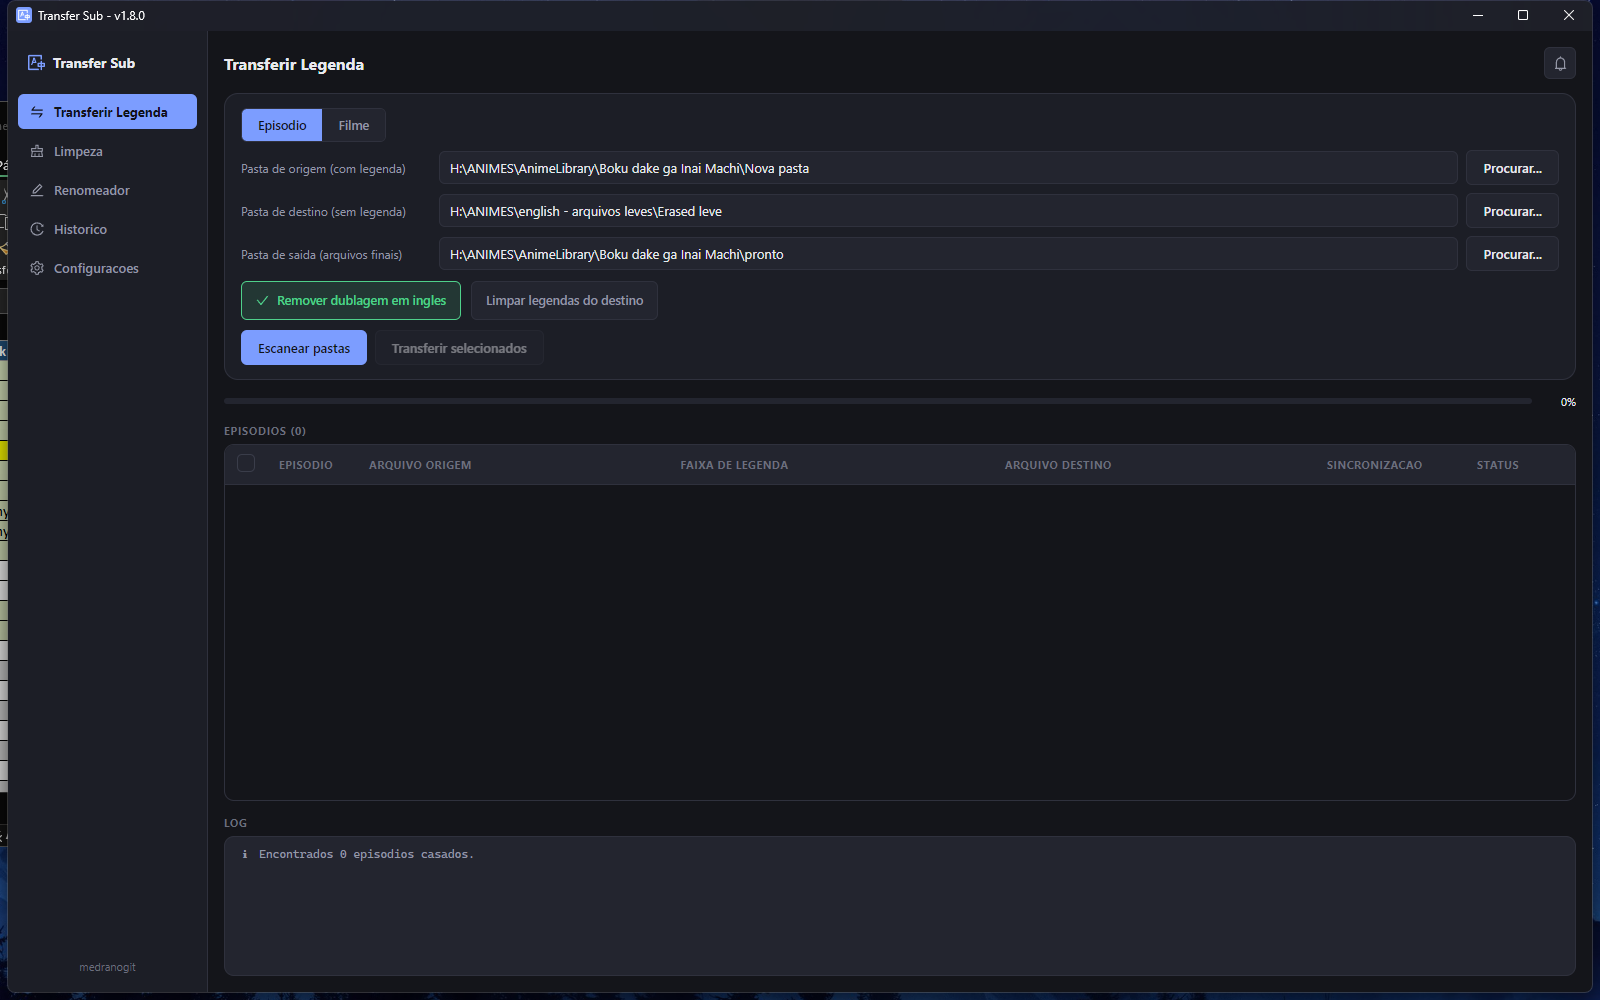
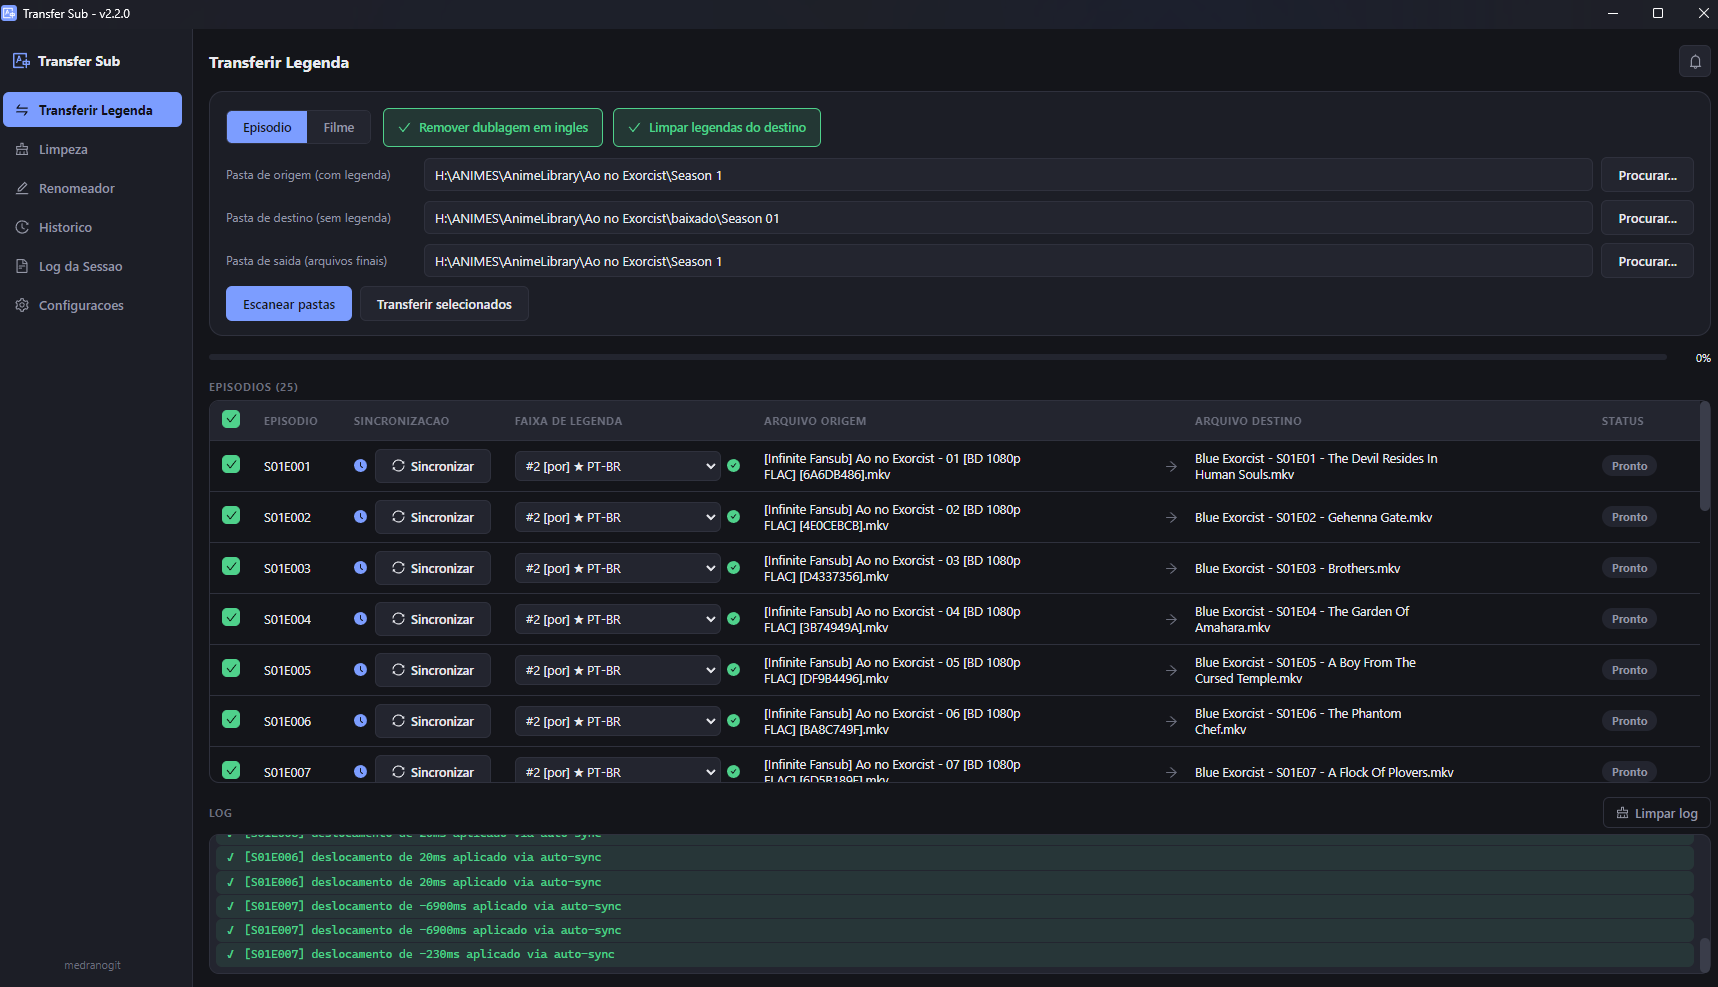
Refactor code structure for improved readability and maintainability

diff --git a/ui/README.md b/ui/README.md
@@ -154,6 +154,23 @@ npm run build   # type-check + build de producao (main/preload/renderer)
 npm run dist    # build + gera instalador .exe (electron-builder)
 ```
 
+### Release automatica (GitHub Actions)
+
+`.github/workflows/release.yml` builda e publica o instalador sozinho quando
+uma tag `vX.Y.Z` e' empurrada - precisa bater com o `version` deste
+`package.json`, ja' que e' o que o `electron-builder` usa (via
+`--publish always`, config `build.publish` no `package.json`) pra decidir o
+nome/tag da Release no GitHub, nao a tag que disparou o workflow. Roda num
+runner Windows (o instalador e' NSIS, so' builda em Windows) e usa o
+`GITHUB_TOKEN` que o proprio Actions ja' fornece - nao precisa cadastrar
+nenhum secret. Tambem pode ser disparado manualmente (sem tag) pela aba
+Actions do GitHub (`workflow_dispatch`), util pra testar o workflow em si.
+
+```
+git tag v2.3.0
+git push origin v2.3.0
+```
+
 ## Seleção automática de legenda em PT-BR
 
 A função `isPtBrTrack` em `src/main/domain/subtitleLanguage.ts` marca uma
@@ -252,6 +269,8 @@ fica limitado pela mais lenta, não pela soma das duas.
 Qualquer valor calculado vira um `--sync` no `mkvmerge` para deslocar toda a
 legenda. Deixe todos os campos em branco para manter o timing original.
 
+![Modal de sincronização, com as duas colunas de legenda lado a lado](../docs/sync-modal.png)
+
 ### Sincronizar automaticamente com legenda de imagem (PGS)
 
 Faixas PGS (`.sup`, comuns em releases de BD) não têm texto codificado — só
@@ -335,6 +354,20 @@ Como a saída pode acabar com o mesmo nome do arquivo de entrada quando a
 pasta de saída é igual à de destino, o `workflow.ts` recusa a operação nesse
 caso (`samePath`) em vez de deixar o `mkvmerge` tentar ler e escrever o
 mesmo arquivo ao mesmo tempo — o que corromperia o vídeo original.
+
+## Pasta de saída (subpasta "TS - Result")
+
+Os arquivos finais de Transferir/Limpeza não vão direto na pasta de saída
+escolhida — vão numa **subpasta** criada dentro dela (`resolveResultFolder`
+em `infra/mkvProcess.ts`), criada automaticamente (`mkdir` recursivo) antes de
+gerar qualquer arquivo. Fica claro o que o app gerou, sem misturar com o
+resto do que já estiver na pasta, e reduz bastante os casos em que
+"pasta de saída igual a de destino" bloquearia a operação (ver seção acima) —
+já que o arquivo final não cai mais no mesmo caminho do arquivo de destino.
+
+O nome da subpasta é configurável em Configurações → Geral
+(`AppConfig.outputFolderName`), padrão `"TS - Result"`; se o campo ficar
+vazio, cai de volta nesse padrão (`DEFAULT_RESULT_FOLDER_NAME`).
 
 ## Aviso de episódio faltando
 
@@ -500,6 +533,40 @@ no topo), diferente do painel da tela (que cresce pra baixo, ao vivo); faz
 mais sentido aqui porque é histórico, não algo acompanhado em tempo real. O
 texto também é selecionável/copiável.
 
+## Configurações
+
+`components/SettingsView.tsx` — layout em grid de 2 colunas fixas (cada
+painel é atribuído a uma coluna no JSX, não balanceado automaticamente pelo
+navegador, pra não pular de coluna sozinho conforme o conteúdo cresce). Além
+do que já tinha (MKVToolNix, nome do arquivo de saída, nome da faixa PT-BR,
+presets do Renomeador), agora tem:
+
+- **Predefinições por tela** (`AppConfig.transferDefaults`/`cleanDefaults`/
+  `renameDefaults`) — o estado com que Transferir Legenda, Limpeza e
+  Renomeador já abrem: Modo Episódio/Filme (mesmo componente
+  `EpisodeMovieToggle` usado nas telas de trabalho, um interruptor — ativar
+  um lado desativa o outro) e as ações padrão ("Remover dublagem em inglês",
+  "Limpar legendas do destino", só no Transferir). Mudar aqui já aplica no
+  estado ao vivo da tela correspondente na hora (não só na próxima abertura
+  do app) e persiste como o novo padrão. `removeEnglishAudio`/
+  `removeExtraSubtitles` deixaram de ser um único estado compartilhado entre
+  Transferir e Limpeza (`App.tsx`) — cada tela tem o seu, senão não daria pra
+  configurar um padrão diferente por tela de verdade.
+- **Silenciar sons** (`AppConfig.muteSounds`) — desliga os sons de
+  conclusão/aviso (`utils/completionSound.ts`/`warningSound.ts`) sem afetar
+  o resto (log, sino de notificações).
+- **Exportar/Importar configurações** — grava/lê o `AppConfig` inteiro num
+  `.json` à parte do `config.json` interno (`infra/configStore.ts:
+  exportConfig`/`importConfig`), via diálogo de salvar/abrir arquivo. Útil
+  pra levar a configuração pra outra máquina ou guardar um backup manual.
+  Importar sempre mescla sobre os valores padrão (mesmo esquema do
+  `loadConfig`), então um arquivo exportado de uma versão mais antiga (sem
+  algum campo novo) continua carregando sem quebrar.
+
+`config.json` fica em `app.getPath('userData')` (fora da pasta de instalação
+do app) — sobrevive normalmente a atualizações/reinstalações, já que o
+instalador só limpa a pasta de instalação, nunca a de dados do usuário.
+
 ## Estrutura
 
 ```
@@ -547,3 +614,7 @@ src/
                                   completionSound.ts, warningSound.ts, useEscapeToClose.ts
   shared/       tipos TypeScript compartilhados entre main/preload/renderer
 ```
+
+## Licenca
+
+[MIT](../LICENSE) — copyright (c) 2026 Vinicius Medrano.

diff --git a/README.md b/README.md
@@ -12,6 +12,7 @@ e já pré-seleciona a legenda em **PT-BR** quando existir.
 ![TypeScript](https://img.shields.io/badge/TypeScript-5-3178C6?logo=typescript&logoColor=white)
 ![styled--components](https://img.shields.io/badge/styled--components-6-DB7093?logo=styledcomponents&logoColor=white)
 ![Platform](https://img.shields.io/badge/platform-Windows-0078D6?logo=windows&logoColor=white)
+![License](https://img.shields.io/badge/license-MIT-yellow.svg)
 
 ![Transfer Sub screenshot](docs/screenshot.png)
 
@@ -75,19 +76,28 @@ extraindo e remuxando cada faixa, é tedioso. O Transfer Sub faz isso em lote.
 - ⚠ **Aviso de episódio faltando** — ao escanear uma pasta, se a numeração dos episódios tiver um
   buraco (ex.: do 01 ao 25, falta o 14), aparece um aviso no log e no sino de notificações — fácil
   de não perceber só olhando a tabela quando há muitos arquivos.
-- 🔔 **Som de conclusão e de aviso** — toca ao terminar uma transferência/limpeza, e um som diferente
-  quando um escaneamento traz avisos, episódio faltando ou sem correspondência pro sino de
-  notificações.
+- 🔔 **Som de conclusão e de aviso** (silenciável em Configurações) — toca ao terminar uma
+  transferência/limpeza, e um som diferente quando um escaneamento traz avisos, episódio faltando
+  ou sem correspondência pro sino de notificações.
 - 🔎 **Zoom da interface** — `Ctrl` `+`/`Ctrl` `-`/`Ctrl` `0` aumentam, diminuem e restauram o zoom da
   janela (padrão 100%, entre 80% e 120%); cada mudança fica registrada no log.
 - 📝 **Log completo** — o painel de log em tela tem botão para limpar e o texto pode ser selecionado/
   copiado; **todo** erro (inclusive os que só apareceriam num modal, como falha ao preparar a
   sincronização) também vai para o log. Cada sessão do app fica gravada num arquivo próprio,
   navegável na página **Log da Sessão** (mais recente primeiro).
+- 📁 **Pasta de saída organizada** — os arquivos finais (Transferir/Limpeza) vão para uma subpasta
+  criada dentro da pasta de saída escolhida (padrão `TS - Result`, nome configurável em
+  Configurações), em vez de direto nela.
 - 🧩 **Não sobrescreve com duplicados** — o resultado é sempre salvo com nome fixo por
   episódio/arquivo; rodar de novo substitui o anterior em vez de criar `(1)`, `(2)`, etc. Em
   Configurações dá pra ligar, por modo, uma marcação extra no final do nome (ex: `[legendado]`/
   `[limpo]`, a palavra é livre).
+- ⚙ **Predefinições por tela** — em Configurações dá pra escolher com que o app já abre cada tela:
+  Modo Episódio/Filme (Transferir e Renomeador) e as ações padrão (Remover dublagem, Limpar
+  legendas) de Transferir/Limpeza — sem precisar reajustar toda vez.
+- 💾 **Exportar/Importar configurações** — leva todas as configurações (pastas, predefinições, nome
+  da faixa PT-BR, presets do Renomeador...) para outra máquina ou guarda um backup manual, como um
+  arquivo `.json`.
 - 📊 Log colorido em tempo real (info/sucesso/aviso/erro) e histórico salvo em
   `transfer-log.json`.
 
@@ -116,6 +126,8 @@ npm run dev
    app calcular o deslocamento.
 4. Clique em **Transferir selecionados**.
 
+![Modal de sincronização](docs/sync-modal.png)
+
 **Página Limpeza:**
 
 1. Vá na página **Limpeza** no menu lateral e selecione a pasta com os arquivos.
@@ -123,6 +135,8 @@ npm run dev
 3. Para remover legendas extras, escolha no dropdown qual manter (padrão é manter todas) — o botão
    **Aplicar a todos** no cabeçalho copia a faixa escolhida na 1ª linha pras demais.
 4. Clique em **Limpar selecionados**.
+
+![Página Limpeza](docs/limpeza.png)
 
 **Página Renomeador:**
 
@@ -134,10 +148,26 @@ npm run dev
 4. Pra corrigir o rótulo da legenda PT-BR já embutida nos arquivos (sem mexer no nome do arquivo),
    use o botão **Rotular faixa PT-BR**.
 
+![Página Renomeador](docs/renomeador.png)
+
+Toda transferência/limpeza/renomeação fica registrada na página **Histórico**:
+
+![Página Histórico](docs/historico.png)
+
 Quer gerar um instalador `.exe` em vez de rodar em modo desenvolvimento?
 
 ```bash
 npm run dist
+```
+
+Ou, pra publicar uma release já pronta no GitHub (build automático), basta empurrar uma tag `vX.Y.Z`
+que bata com o `version` de `ui/package.json` — o workflow em
+[`.github/workflows/release.yml`](.github/workflows/release.yml) builda num runner Windows e sobe o
+instalador como asset da Release.
+
+```bash
+git tag v2.3.0
+git push origin v2.3.0
 ```
 
 ## Arquitetura
@@ -174,3 +204,7 @@ Mais detalhes em [`ui/README.md`](ui/README.md).
 
 Electron · React · TypeScript · styled-components · Ant Design Icons ·
 MKVToolNix (`mkvmerge` / `mkvextract` / `mkvpropedit`)
+
+## Licenca
+
+[MIT](LICENSE) — copyright (c) 2026 Vinicius Medrano.
